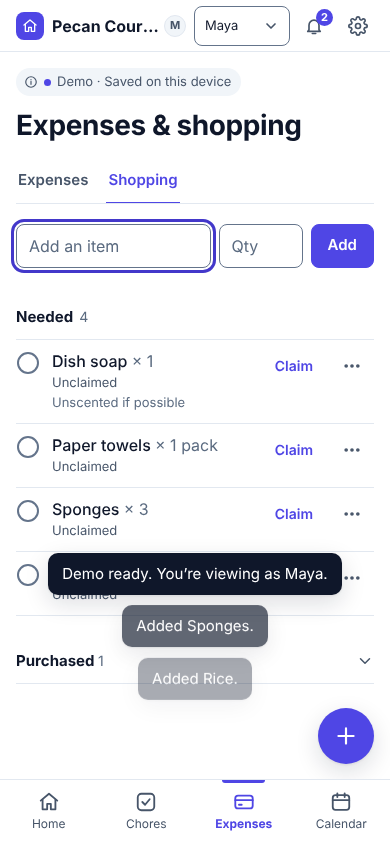
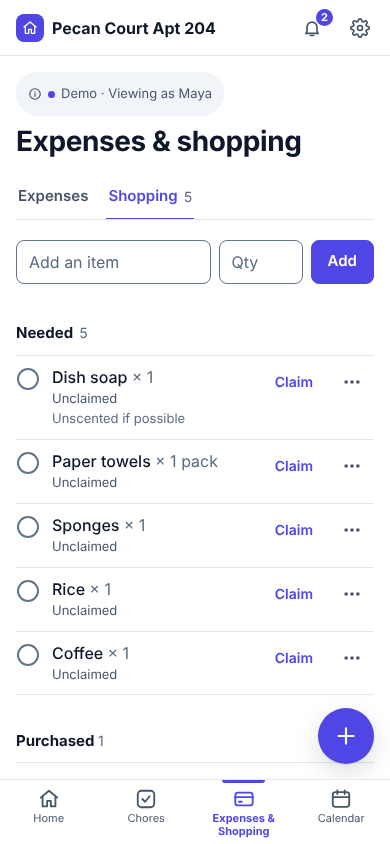
Refine Home priority, shopping discoverability, calendar actions, mobile header and copy
- Home: 'Your upcoming chores' and 'Household plans'; 'Past due in the household' with owner shown and no checkbox; 3-item previews with 'See all' links; recent activity collapsed; mobile order is chores, household past due, balance, plans, shopping, activity
- Mobile nav says 'Expenses & Shopping'; Shopping tab shows the needed count
- Calendar: visible Add event next to the view switch (same dialog as the global Add menu, defaults to the selected day); agenda states its start day with Back to today; roomier week items with clamped titles and full title on open; 7-column week only from 1100px
- Mobile header: household name gets the room (full name in title); roommate switcher moves into the demo chip ('Demo · Viewing as Maya'); 44px targets
- Copy: seed away event no longer implies a weekend; legacy 'payback' text shown as 'repayment' at display time only; single contextual Record repayment entry
- Tests: displayCopy and fixture regressions; tests/e2e.refinement.mjs; existing browser suites updated for the new header

Claude-Session: https://claude.ai/code/session_01D1j1XZUmCQM9XSxDUNXFjc

diff --git a/js/app.js b/js/app.js
@@ -114,28 +114,30 @@ function shopRowCompact(i) {
 }
 
 // ---------- Home ----------
+const PREVIEW = 3; // practical preview length for the available layout (not a research-derived number)
+const moreLink = (n, shown, href, label) => (n > shown ? `<a class="more-link" href="${href}">${label} (${n})</a>` : '');
 function viewHome() {
   const s = store.state, t = today(), me = store.me();
   const hr = new Date().getHours();
   const greet = hr < 12 ? 'Good morning' : hr < 18 ? 'Good afternoon' : 'Good evening';
   const mine = store.sel.mine();
   const overdueMine = mine.filter((o) => o.due < t), dueToday = mine.filter((o) => o.due === t);
-  const upcoming = mine.filter((o) => o.due > t).slice(0, 5);
+  const upcomingAll = mine.filter((o) => o.due > t), upcoming = upcomingAll.slice(0, PREVIEW);
   const others = store.sel.overdue().filter((o) => o.assigneeId !== me);
   const needed = store.sel.needed();
-  const events = store.sel.upcomingEvents(14).slice(0, 4);
+  const events = store.sel.upcomingEvents(14);
   const feed = s.activity.slice(0, 5);
   const list = (arr) => `<ul class="list">${arr.map((o) => choreRow(o, { ctx: 'h' })).join('')}</ul>`;
   const todayBody = dueToday.length ? list(dueToday)
-    : `<div class="empty"><strong>${ic('check', 16)} You’re all caught up today</strong>${upcoming.length ? `Next up: ${esc(upcoming[0].title)}, ${L.fmtDay(upcoming[0].due)}.` : 'Nothing is assigned to you right now.'}</div>`;
+    : `<div class="empty"><strong>${ic('check', 16)} You’re all caught up today</strong>${upcomingAll.length ? `Next up: ${esc(upcomingAll[0].title)}, ${L.fmtDay(upcomingAll[0].due)}.` : 'Nothing is assigned to you right now.'}</div>`;
   const mainCol = `<div data-o="1">${overdueMine.length ? sec('over', 'Overdue', list(overdueMine), { count: overdueMine.length, danger: true, icon: 'alert' }) : ''}
       ${sec('today', 'Today', todayBody + addRow('add-chore', 'Add chore'), { count: dueToday.length || null })}
-      ${upcoming.length ? sec('up', 'Upcoming', list(upcoming), { count: upcoming.length, right: '<a href="#/chores/mine">All your chores</a>' }) : ''}</div>
-    ${others.length ? `<div data-o="5">${sec('others', 'Needs attention in the household', `<ul class="list">${others.map((o) => choreRow(o, { ctx: 'o', owner: true })).join('')}</ul>`, { count: others.length, right: '<a href="#/chores/all">All chores</a>' })}</div>` : ''}
-    <div data-o="6">${sec('act', 'Recent activity', feed.length ? `<ul class="feed">${feed.map((a) => `<li><a href="${esc(a.link)}"><strong>${esc(who(a.actorId))}</strong> ${esc(a.verb)} ${esc(a.subject)}</a><time datetime="${a.ts}">${ago(a.ts)}</time></li>`).join('')}</ul>` : empty('No activity yet', 'Completed chores, purchases and changes show up here.'))}</div>`;
-  const sideCol = `<div data-o="2" class="sec"><div class="panel-soft"><div class="sec-head" style="border:0;padding:0 0 8px"><h2>Your balance</h2><a href="#/money/expenses">Expenses</a></div>${balanceBlock()}</div></div>
-    <div data-o="3">${sec('ev', 'Coming up', events.length ? `<ul class="list">${events.map(eventRow).join('')}</ul>` : empty('Nothing planned', 'Add quiet time, guests or plans so everyone knows.', '<br><button type="button" class="btn sm" data-action="add-event">Add event</button>'), { right: '<a href="#/calendar">Calendar</a>' })}</div>
-    <div data-o="4">${sec('shop', 'Shopping list', needed.length ? `<ul class="list">${needed.slice(0, 4).map(shopRowCompact).join('')}</ul>${needed.length > 4 ? `<p class="small muted" style="padding-top:8px">+ ${needed.length - 4} more</p>` : ''}` : empty('Nothing needed', 'Add something when the apartment runs low.', '<br><button type="button" class="btn sm" data-action="add-item">Add item</button>'), { count: needed.length || null, right: '<a href="#/money/shopping">Open list</a>' })}</div>`;
+      ${upcomingAll.length ? sec('up', 'Your upcoming chores', list(upcoming) + moreLink(upcomingAll.length, upcoming.length, '#/chores/mine', 'See all your chores'), { count: upcomingAll.length }) : ''}</div>
+    ${others.length ? `<div data-o="2">${sec('others', 'Past due in the household', `<ul class="list">${others.slice(0, PREVIEW).map((o) => choreRow(o, { ctx: 'o', owner: true })).join('')}</ul>${moreLink(others.length, PREVIEW, '#/chores/all', 'See all chores')}`, { count: others.length })}</div>` : ''}
+    <div data-o="6">${disclosure('activity', 'Recent activity', feed.length ? `<ul class="feed">${feed.map((a) => `<li><a href="${esc(a.link)}"><strong>${esc(who(a.actorId))}</strong> ${esc(L.displayCopy(a.verb))} ${esc(L.displayCopy(a.subject))}</a><time datetime="${a.ts}">${ago(a.ts)}</time></li>`).join('')}</ul>` : empty('No activity yet', 'Completed chores, purchases and changes show up here.'))}</div>`;
+  const sideCol = `<div data-o="3" class="sec"><div class="panel-soft"><div class="sec-head" style="border:0;padding:0 0 8px"><h2>Your balance</h2><a href="#/money/expenses">Expenses</a></div>${balanceBlock()}</div></div>
+    <div data-o="4">${sec('ev', 'Household plans', events.length ? `<ul class="list">${events.slice(0, PREVIEW).map(eventRow).join('')}</ul>${moreLink(events.length, PREVIEW, '#/calendar', 'See calendar')}` : empty('Nothing planned', 'Add quiet time, guests or plans so everyone knows.', '<br><button type="button" class="btn sm" data-action="add-event">Add event</button>'), { count: events.length || null, right: '<a href="#/calendar">Calendar</a>' })}</div>
+    <div data-o="5">${sec('shop', 'Shopping list', needed.length ? `<ul class="list">${needed.slice(0, PREVIEW).map(shopRowCompact).join('')}</ul>${moreLink(needed.length, PREVIEW, '#/money/shopping', 'See the full list')}` : empty('Nothing needed', 'Add something when the apartment runs low.', '<br><button type="button" class="btn sm" data-action="add-item">Add item</button>'), { count: needed.length || null, right: '<a href="#/money/shopping">Open list</a>' })}</div>`;
   return `<div class="page-head"><div><h1>Today</h1><p class="sub">${greet}, ${esc(name(me))} · ${L.fmtDay(t)}</p></div></div><div class="dash"><div class="dash-col">${mainCol}</div><div class="dash-col">${sideCol}</div></div>`;
 }
 
@@ -162,7 +164,7 @@ function viewChores(tab) {
 
 // ---------- Expenses & shopping ----------
 function viewMoney(tab) {
-  const tabsNav = `<nav class="tabs" aria-label="Expenses and shopping"><a href="#/money/expenses"${tab === 'expenses' ? ' aria-current="page"' : ''}>Expenses</a><a href="#/money/shopping"${tab === 'shopping' ? ' aria-current="page"' : ''}>Shopping</a></nav>`;
+  const tabsNav = `<nav class="tabs" aria-label="Expenses and shopping"><a href="#/money/expenses"${tab === 'expenses' ? ' aria-current="page"' : ''}>Expenses</a><a href="#/money/shopping"${tab === 'shopping' ? ' aria-current="page"' : ''}>Shopping${store.sel.needed().length ? `<span class="count" style="margin-left:6px">${store.sel.needed().length}<span class="sr-only"> needed</span></span>` : ''}</a></nav>`;
   if (tab === 'shopping') {
     const needed = store.sel.needed(), bought = store.sel.purchased();
     const row = (i) => {
@@ -184,6 +186,7 @@ function viewMoney(tab) {
       ${disclosure('bought', `Purchased <span class="count">${bought.length}</span>`, bought.length ? `<ul class="list">${bought.map(histRow).join('')}</ul>` : empty('Nothing purchased yet', 'Purchased items are kept here so you can add them again.'))}`;
   }
   const s = store.state, me = store.me(), bal = store.sel.balances();
+  const owesSomeone = store.sel.settlements().some((x) => x.from === me); // the balance panel already offers a prefilled repayment
   const hist = [...s.expenses.map((e) => ({ k: 'e', d: e.date, c: e.createdAt, v: e })), ...s.reimbursements.map((r) => ({ k: 'r', d: r.date, c: r.createdAt, v: r }))].sort((a, b) => b.d.localeCompare(a.d) || b.c.localeCompare(a.c));
   const expRow = (e) => {
     const share = e.splits[me];
@@ -198,7 +201,7 @@ function viewMoney(tab) {
   const balances = `<table><caption class="sr-only">Net balance by roommate</caption><thead><tr><th scope="col">Roommate</th><th scope="col" class="num">Balance</th></tr></thead><tbody>${s.members.map((m) => `<tr><th scope="row">${avatar(m.id)} ${esc(m.name)}${m.id === me ? ' (you)' : ''}</th><td class="num">${bal[m.id] > 0 ? `Is owed ${money(bal[m.id])}` : bal[m.id] < 0 ? `Owes ${money(-bal[m.id])}` : 'Settled up'}</td></tr>`).join('')}</tbody></table>`;
   return `<div class="page-head"><h1>Expenses &amp; shopping</h1></div>${tabsNav}
     <div class="sec"><div class="panel-soft"><h2 style="margin-bottom:8px">Your balance</h2>${balanceBlock({ full: true })}</div></div>
-    ${sec('hist', 'Expenses and repayments', (hist.length ? `<ul class="list">${hist.map((h) => (h.k === 'e' ? expRow(h.v) : reRow(h.v))).join('')}</ul>` : empty('No expenses yet', 'Add the first shared expense, like utilities or groceries.')) + addRow('add-expense', 'Add expense') + addRow('add-reimb', 'Record repayment'))}
+    ${sec('hist', 'Expenses and repayments', (hist.length ? `<ul class="list">${hist.map((h) => (h.k === 'e' ? expRow(h.v) : reRow(h.v))).join('')}</ul>` : empty('No expenses yet', 'Add the first shared expense, like utilities or groceries.')) + addRow('add-expense', 'Add expense') + (owesSomeone ? '' : addRow('add-reimb', 'Record repayment')))}
     ${sec('tot', `Household spending in ${L.fmtMonth(today()).split(' ')[0]}`, `<p class="balance-line money" style="padding-top:12px">${money(store.sel.monthTotal())}</p><p class="hint">Expenses dated this month. Repayments aren’t counted as spending.</p>`)}
     ${disclosure('balances', 'Everyone’s balance', balances)}`;
 }
@@ -218,7 +221,7 @@ function viewCalendar() {
   const ws = L.startOfWeek(sel), days = Array.from({ length: 7 }, (_, i) => L.addDays(ws, i));
   const meta = (d) => ({ evs: store.sel.eventsOn(d), occs: store.sel.occsOn(d) });
   const bar = `<div class="cal-bar"><div class="cal-title"><h2>${L.fmtMonth(sel)}</h2><button type="button" class="icon-btn sm" data-action="cal-shift" data-delta="-7" aria-label="Previous week">${ic('chevL', 18)}</button><button type="button" class="icon-btn sm" data-action="cal-shift" data-delta="7" aria-label="Next week">${ic('chevR', 18)}</button><button type="button" class="btn quiet sm" data-action="cal-today">Today</button></div>
-    <div class="seg" role="group" aria-label="Calendar view"><label><input type="radio" name="calview" value="agenda" data-action="cal-view" data-view="agenda"${view === 'agenda' ? ' checked' : ''}><span>Agenda</span></label><label><input type="radio" name="calview" value="week" data-action="cal-view" data-view="week"${view === 'week' ? ' checked' : ''}><span>Week</span></label></div></div>`;
+    <div class="cal-tools"><div class="seg" role="group" aria-label="Calendar view"><label><input type="radio" name="calview" value="agenda" data-action="cal-view" data-view="agenda"${view === 'agenda' ? ' checked' : ''}><span>Agenda</span></label><label><input type="radio" name="calview" value="week" data-action="cal-view" data-view="week"${view === 'week' ? ' checked' : ''}><span>Week</span></label></div><button type="button" class="btn primary" data-action="add-event">${ic('plus', 18)}Add event</button></div></div>`;
   let body;
   if (view === 'agenda') {
     const strip = `<div class="date-strip" role="group" aria-label="Week of ${L.fmtMonthDay(ws)}">${days.map((d) => {
@@ -238,13 +241,14 @@ function viewCalendar() {
       ${evs.map((e) => `<button type="button" class="ag-row" data-action="view-event" data-id="${e.id}"><span class="ag-time">${rangeLabel(e, d)}</span><span class="ag-ic cat-${e.category}">${ic(CAT_ICON[e.category], 15)}</span><span><span class="ag-title">${esc(e.title)}</span><span class="ag-sub" style="display:block">${esc(L.CATEGORIES[e.category].label)} · ${esc(who(e.creatorId))}</span></span></button>`).join('')}
       ${occs.map((o) => `<button type="button" class="ag-row" data-action="view-chore" data-id="${o.id}"><span class="ag-time">Chore</span><span class="ag-ic chore">${ic('chores', 15)}</span><span><span class="ag-title${o.doneAt ? ' done' : ''}">${esc(o.title)}</span><span class="ag-sub" style="display:block">${esc(who(o.assigneeId))}${o.doneAt ? ' · Done' : ''}</span></span></button>`).join('')}
       ${!evs.length && !occs.length ? '<p class="small muted" style="padding:12px 0">Nothing planned</p>' : ''}</section>`).join('');
-    body = `${strip}${any ? rows : rows + empty('Nothing on the calendar', 'Add quiet time, guests, an away day or a household plan.', '<br><button type="button" class="btn sm" data-action="add-event">Add event</button>')}`;
+    const anchor = `<p class="ag-anchor">Showing the next 14 days from <strong>${L.fmtFull(sel)}</strong>${sel === t ? ' (today)' : ''}. Pick another day above to start the agenda there.${sel !== t ? ' <button type="button" class="btn quiet sm" data-action="cal-today">Back to today</button>' : ''}</p>`;
+    body = `${strip}${anchor}${any ? rows : rows + empty('Nothing on the calendar', 'Add quiet time, guests, an away day or a household plan.', '<br><button type="button" class="btn sm" data-action="add-event">Add event</button>')}`;
   } else {
     body = `<div class="week">${days.map((d) => {
       const { evs, occs } = meta(d), none = !evs.length && !occs.length;
       return `<section class="wk-day${d === t ? ' today' : ''}${d < t ? ' past' : ''}" aria-label="${L.fmtFull(d)}"><button type="button" class="wk-head" data-action="cal-open-day" data-date="${d}" aria-label="Open ${L.fmtFull(d)} in agenda"><span>${L.fmtWeekday(d)}</span><span class="dn">${parseInt(d.slice(8), 10)}</span></button>
-        ${evs.map((e) => `<button type="button" class="wk-item cat-${e.category}" data-action="view-event" data-id="${e.id}"><span class="t">${ic(CAT_ICON[e.category], 12)}${L.fmtTime(L.dtTime(e.start))}</span><span class="n">${esc(e.title)}</span></button>`).join('')}
-        ${occs.map((o) => `<button type="button" class="wk-item chore${o.doneAt ? ' is-done' : ''}" data-action="view-chore" data-id="${o.id}"><span class="t">${ic('chores', 12)}${esc(who(o.assigneeId))}</span><span class="n">${esc(o.title)}</span></button>`).join('')}
+        ${evs.map((e) => `<button type="button" class="wk-item cat-${e.category}" data-action="view-event" data-id="${e.id}" title="${esc(e.title)}"><span class="t">${ic(CAT_ICON[e.category], 12)}${L.fmtTime(L.dtTime(e.start))}</span><span class="n">${esc(e.title)}</span></button>`).join('')}
+        ${occs.map((o) => `<button type="button" class="wk-item chore${o.doneAt ? ' is-done' : ''}" data-action="view-chore" data-id="${o.id}" title="${esc(o.title)}"><span class="t">${ic('chores', 12)}${esc(who(o.assigneeId))}</span><span class="n">${esc(o.title)}</span></button>`).join('')}
         ${none ? '<span class="wk-none">Nothing planned</span>' : ''}</section>`;
     }).join('')}</div>`;
   }
@@ -256,7 +260,7 @@ function viewNotifications() {
   const list = store.sel.notifications();
   const groups = ['Today', 'Yesterday', 'Earlier'].map((g) => [g, list.filter((n) => dayBucket(n.createdAt) === g)]).filter(([, v]) => v.length);
   const row = (n) => `<li class="notif ${n.read ? 'read' : 'unread'}"><span class="ndot" aria-hidden="true"></span>
-    <a class="n-main" href="${esc(n.link)}" data-action="open-notif" data-id="${n.id}"><span class="sr-only">${n.read ? 'Read: ' : 'Unread: '}</span><div class="n-title">${esc(n.title)}</div>${n.body ? `<div class="n-body">${esc(n.body)}</div>` : ''}<time>${ago(n.createdAt)}</time></a>
+    <a class="n-main" href="${esc(n.link)}" data-action="open-notif" data-id="${n.id}"><span class="sr-only">${n.read ? 'Read: ' : 'Unread: '}</span><div class="n-title">${esc(L.displayCopy(n.title))}</div>${n.body ? `<div class="n-body">${esc(L.displayCopy(n.body))}</div>` : ''}<time>${ago(n.createdAt)}</time></a>
     ${menu({ id: `n-${n.id}`, label: 'More actions for this notification', items: [{ label: n.read ? 'Mark as unread' : 'Mark as read', icon: 'check', action: 'toggle-read', data: { id: n.id } }] })}</li>`;
   const unread = list.filter((n) => !n.read).length;
   return `<div class="page-head"><div><h1>Notifications</h1><p class="sub">${unread ? `${unread} unread` : 'All caught up'} · for ${esc(name(store.me()))}</p></div><div class="head-actions"><button type="button" class="btn" data-action="read-all"${unread ? '' : ' disabled'}>Mark all read</button><a class="btn quiet" href="#/settings">Reminder settings</a></div></div>
@@ -521,7 +525,7 @@ document.addEventListener('toggle', (e) => { const k = e.target.dataset?.key; if
 document.addEventListener('submit', (e) => { const f = e.target; if (f.dataset.inline) { e.preventDefault(); handleInlineForm(f); } });
 
 // ---------- shell & render ----------
-const NAV = [['home', '#/home', 'Home', 'home', 'Home'], ['chores', '#/chores/mine', 'Chores', 'chores', 'Chores'], ['money', '#/money/expenses', 'Expenses & Shopping', 'money', 'Expenses'], ['calendar', '#/calendar', 'Calendar', 'calendar', 'Calendar']];
+const NAV = [['home', '#/home', 'Home', 'home', 'Home'], ['chores', '#/chores/mine', 'Chores', 'chores', 'Chores'], ['money', '#/money/expenses', 'Expenses & Shopping', 'money', 'Expenses & Shopping'], ['calendar', '#/calendar', 'Calendar', 'calendar', 'Calendar']];
 const TITLES = { home: 'Home', chores: 'Chores', money: 'Expenses & Shopping', calendar: 'Calendar', notifications: 'Notifications', settings: 'Settings' };
 const ADD_ITEMS = [{ label: 'Chore', icon: 'chores', action: 'add-chore' }, { label: 'Expense', icon: 'money', action: 'add-expense' }, { label: 'Shopping item', icon: 'cart', action: 'add-item' }, { label: 'Event', icon: 'calendar', action: 'add-event' }];
 function render() {
@@ -544,14 +548,18 @@ function render() {
   const navLinks = (side) => NAV.map(([k, href, label, icon, short]) => `<a ${side ? 'class="nav"' : ''} href="${href}"${k === key ? ' aria-current="page"' : ''} aria-label="${esc(label)}">${ic(icon, side ? 20 : 22)}<span aria-hidden="true">${side ? label : short}</span></a>`).join('');
   const bell = `<a class="icon-link" href="#/notifications" aria-label="Notifications${unread ? `, ${unread} unread` : ''}"${key === 'notifications' ? ' aria-current="page"' : ''}>${ic('bell', 20)}${unread ? `<span class="badge-count" aria-hidden="true">${unread > 9 ? '9+' : unread}</span>` : ''}</a>`;
   const gear = `<a class="icon-link" href="#/settings" aria-label="Settings"${key === 'settings' ? ' aria-current="page"' : ''}>${ic('gear', 20)}</a>`;
-  const viewer = (cls) => `<div class="${cls}"><label class="viewer-label" for="switch-user">Viewing as</label>${isNarrow ? avatar(s.currentUserId) : ''}<select id="switch-user" data-change="switch-user">${s.members.map((m) => `<option value="${m.id}"${m.id === s.currentUserId ? ' selected' : ''}>${esc(m.name)}</option>`).join('')}</select></div>`;
-  const household = `<a class="household" href="#/home" title="${esc(s.household.name)}"><span class="logo">${ic('home', 16)}</span><span class="t">${esc(s.household.name)}</span></a>`;
-  const status = `<div class="statusbar"><details class="status"><summary>${ic('info', 14)}<span class="dot" aria-hidden="true"></span>${s.mode === 'demo' ? 'Demo' : 'Local'} · Saved on this device</summary><div class="panel"><strong style="color:var(--color-text)">${s.mode === 'demo' ? 'Demo household' : 'Local household'}</strong><ul><li>Everything is stored in this browser. It doesn’t sync to other devices.</li><li>“Viewing as” previews each roommate. There are no accounts yet.</li><li>Notifications show inside RoomSync only.</li></ul></div></details></div>`;
+  const household = `<a class="household" href="#/home" title="${esc(s.household.name)}" aria-label="${esc(s.household.name)}, home"><span class="logo">${ic('home', 16)}</span><span class="t">${esc(s.household.name)}</span></a>`;
+  const viewerSelect = (label) => `<label for="switch-user">${label}</label><select id="switch-user" data-change="switch-user">${s.members.map((m) => `<option value="${m.id}"${m.id === s.currentUserId ? ' selected' : ''}>${esc(m.name)}</option>`).join('')}</select>`;
+  const modeName = s.mode === 'demo' ? 'Demo' : 'Local';
+  // Phones: the roommate switcher lives inside the demo controls so the header stays quiet; the chip still names who you are viewing as.
+  const status = `<div class="statusbar"><details class="status"><summary>${ic('info', 14)}<span class="dot" aria-hidden="true"></span>${isNarrow ? `${modeName} · Viewing as ${esc(name(s.currentUserId))}` : `${modeName} · Saved on this device`}</summary><div class="panel"><strong style="color:var(--color-text)">${s.mode === 'demo' ? 'Demo household' : 'Local household'} · ${esc(s.household.name)}</strong>
+    ${isNarrow ? `<div class="panel-viewer">${viewerSelect('Viewing as')}<p class="hint">Preview each roommate’s view. This isn’t a login.</p></div>` : ''}
+    <ul><li>Saved on this device only. It doesn’t sync to other devices.</li><li>${isNarrow ? 'Switching roommates previews their chores and balance.' : '“Viewing as” previews each roommate. There are no accounts yet.'}</li><li>Notifications show inside RoomSync only.</li></ul></div></details></div>`;
   const sidebar = `<aside class="sidebar" aria-label="Sidebar"><div class="side-head">${household}</div>
     <div class="side-viewer"><label for="switch-user">Viewing as</label><div class="side-tools"><select id="switch-user" data-change="switch-user">${s.members.map((m) => `<option value="${m.id}"${m.id === s.currentUserId ? ' selected' : ''}>${esc(m.name)}</option>`).join('')}</select>${bell}${gear}</div></div>
     ${menu({ id: 'add-side', label: 'Add to household', icon: 'plus', text: 'Add', cls: 'nav-add', items: ADD_ITEMS })}
     <nav aria-label="Primary">${navLinks(true)}</nav><div class="side-foot">${status}</div></aside>`;
-  const topbar = `<header class="topbar">${household}${viewer('viewer')}${bell}${gear}</header>`;
+  const topbar = `<header class="topbar">${household}${bell}${gear}</header>`;
   app.innerHTML = `<div class="shell">${isNarrow ? '' : sidebar}
     <div class="main-col">${isNarrow ? topbar : ''}
       ${store.saveError ? `<div class="banner-error" role="alert">Couldn’t save to this browser (storage may be full or blocked). Recent changes will be lost if you close or refresh this page.</div>` : ''}

diff --git a/css/styles.css b/css/styles.css
@@ -58,20 +58,21 @@ svg.i { flex: none; vertical-align: middle; }
 .main-col { padding-bottom: calc(var(--nav-h) + 96px + env(safe-area-inset-bottom, 0px)); min-width: 0; background: var(--color-surface); }
 main { max-width: 800px; margin: 0 auto; padding: var(--space-4) var(--space-4) var(--space-6); outline: none; }
 main.wide { max-width: 1040px; }
-.topbar { position: sticky; top: 0; z-index: 20; background: var(--color-surface); border-bottom: 1px solid var(--color-border); display: flex; align-items: center; gap: var(--space-1); padding: var(--space-1) var(--space-3) var(--space-1) var(--space-4); min-height: 52px; }
+.topbar { position: sticky; top: 0; z-index: 20; background: var(--color-surface); border-bottom: 1px solid var(--color-border); display: flex; align-items: center; gap: var(--space-1); padding: var(--space-1) var(--space-2) var(--space-1) var(--space-4); min-height: 56px; }
 .household { display: flex; align-items: center; gap: var(--space-2); min-width: 0; margin-right: auto; color: var(--color-text); font-weight: 650; text-decoration: none; }
 .household span.t { overflow: hidden; text-overflow: ellipsis; white-space: nowrap; }
+.household { flex: 1; }
 .logo { display: inline-grid; place-items: center; width: 28px; height: 28px; border-radius: 8px; background: var(--color-primary); color: var(--color-on-primary); flex: none; }
 .viewer { display: flex; align-items: center; gap: var(--space-2); font-size: .8125rem; color: var(--color-text-secondary); flex: none; white-space: nowrap; }
 .viewer select { width: auto; min-width: 96px; max-width: 150px; min-height: 40px; padding: 4px 28px 4px 10px; }
-.icon-link { position: relative; display: inline-grid; place-items: center; width: 40px; height: 40px; border-radius: var(--radius-control); color: var(--color-text-secondary); text-decoration: none; transition: background var(--dur); flex: none; }
+.icon-link { position: relative; display: inline-grid; place-items: center; width: 44px; height: 44px; border-radius: var(--radius-control); color: var(--color-text-secondary); text-decoration: none; transition: background var(--dur); flex: none; }
 .icon-link:hover { background: var(--color-surface-subtle); color: var(--color-text); }
 .icon-link[aria-current="page"] { background: var(--color-primary-subtle); color: var(--color-primary); }
 .badge-count { position: absolute; top: 3px; right: 1px; min-width: 17px; height: 17px; padding: 0 4px; border-radius: 999px; background: var(--color-primary); color: var(--color-on-primary); font-size: .6875rem; font-weight: 700; display: grid; place-items: center; }
 .banner-error { margin: var(--space-3) var(--space-4) 0; padding: var(--space-3) var(--space-4); border-radius: var(--radius-control); background: var(--color-danger-subtle); color: var(--color-danger); font-size: .875rem; border: 1px solid var(--color-danger); }
 
 .bottomnav { position: fixed; left: 0; right: 0; bottom: 0; background: var(--color-surface); border-top: 1px solid var(--color-border); display: grid; grid-template-columns: repeat(4, 1fr); z-index: 30; padding-bottom: env(safe-area-inset-bottom, 0px); }
-.bottomnav a { display: flex; flex-direction: column; align-items: center; justify-content: center; gap: 2px; min-height: var(--nav-h); font-size: .75rem; color: var(--color-text-secondary); text-decoration: none; padding: 6px 2px; position: relative; }
+.bottomnav a { display: flex; flex-direction: column; align-items: center; justify-content: flex-start; gap: 2px; min-height: var(--nav-h); font-size: .6875rem; line-height: 1.15; text-align: center; color: var(--color-text-secondary); text-decoration: none; padding: 8px 4px 6px; position: relative; }
 .bottomnav a[aria-current="page"] { color: var(--color-primary); font-weight: 650; }
 .bottomnav a[aria-current="page"]::before { content: ""; position: absolute; top: 0; left: 28%; right: 28%; height: 3px; border-radius: 0 0 3px 3px; background: var(--color-primary); }
 .fab-wrap { position: fixed; right: var(--space-4); bottom: calc(var(--nav-h) + var(--space-4) + env(safe-area-inset-bottom, 0px)); z-index: 25; }
@@ -86,6 +87,9 @@ main.wide { max-width: 1040px; }
 .status .dot { width: 7px; height: 7px; border-radius: 50%; background: var(--color-primary); }
 .status .panel { position: absolute; z-index: 15; margin-top: 6px; width: min(340px, calc(100vw - 32px)); padding: var(--space-4); background: var(--color-surface); border: 1px solid var(--color-border); border-radius: var(--radius-surface); box-shadow: var(--shadow-pop); font-size: .875rem; }
 .status .panel ul { margin: var(--space-2) 0 0; padding-left: 18px; }
+.panel-viewer { margin-top: var(--space-3); }
+.panel-viewer label { display: block; font-size: .8125rem; font-weight: 600; color: var(--color-text-secondary); margin-bottom: 4px; }
+@media (max-width: 859px) { .status > summary { min-height: 44px; padding-inline: 12px; } .statusbar { margin-bottom: var(--space-2); } }
 .status .panel li + li { margin-top: 4px; }
 
 @media (min-width: 860px) {
@@ -294,16 +298,16 @@ details.inline ul { margin: 4px 0 0; padding-left: 18px; font-size: .8125rem; co
 .cat-pill { display: inline-flex; align-items: center; gap: 4px; padding: 2px 10px; border-radius: 999px; font-size: .75rem; font-weight: 600; }
 .legend { display: flex; flex-wrap: wrap; gap: var(--space-2); font-size: .75rem; margin-top: var(--space-3); }
 .week { display: grid; gap: 0; grid-template-columns: 1fr; margin-top: var(--space-3); border-top: 1px solid var(--color-border); }
-@media (min-width: 900px) { .week { grid-template-columns: repeat(7, minmax(0, 1fr)); border: 1px solid var(--color-border); border-radius: var(--radius-surface); overflow: hidden; } .wk-day { border-right: 1px solid var(--color-border); } .wk-day:last-child { border-right: 0; } }
+@media (min-width: 1100px) { .week { grid-template-columns: repeat(7, minmax(0, 1fr)); border: 1px solid var(--color-border); border-radius: var(--radius-surface); overflow: hidden; } .wk-day { border-right: 1px solid var(--color-border); } .wk-day:last-child { border-right: 0; } }
 .wk-day { padding: var(--space-3) var(--space-2); min-width: 0; border-bottom: 1px solid var(--color-border); min-height: 56px; }
-@media (min-width: 900px) { .wk-day { border-bottom: 0; min-height: 280px; } }
+@media (min-width: 1100px) { .wk-day { border-bottom: 0; min-height: 300px; padding: var(--space-3); } }
 .wk-head { display: flex; align-items: center; gap: var(--space-2); margin-bottom: var(--space-2); width: 100%; border: 0; background: none; padding: 0; cursor: pointer; text-align: left; color: var(--color-text-secondary); font-size: .8125rem; font-weight: 600; }
 .wk-head .dn { display: grid; place-items: center; width: 28px; height: 28px; border-radius: 50%; font-size: .9375rem; color: var(--color-text); font-weight: 700; }
 .wk-day.today .wk-head .dn { background: var(--color-primary); color: var(--color-on-primary); }
 .wk-day.past .wk-head { opacity: .75; }
-.wk-item { display: block; width: 100%; text-align: left; border: 0; border-radius: 6px; padding: 5px 7px; margin-bottom: 4px; font-size: .8125rem; cursor: pointer; text-decoration: none; min-width: 0; min-height: 44px; }
+.wk-item { display: block; width: 100%; text-align: left; border: 0; border-radius: 8px; padding: 8px 9px; margin-bottom: 6px; font-size: .8125rem; cursor: pointer; text-decoration: none; min-width: 0; min-height: 44px; }
 .wk-item .t { display: flex; align-items: center; gap: 4px; font-size: .75rem; font-weight: 600; }
-.wk-item .n { display: block; font-weight: 600; overflow-wrap: anywhere; color: var(--color-text); }
+.wk-item .n { display: -webkit-box; -webkit-line-clamp: 3; -webkit-box-orient: vertical; overflow: hidden; font-weight: 600; overflow-wrap: anywhere; color: var(--color-text); line-height: 1.3; margin-top: 2px; }
 .wk-item.chore { background: none; color: var(--color-text-secondary); box-shadow: inset 0 0 0 1px var(--color-border); }
 .wk-item.chore.is-done .n { color: var(--color-text-muted); }
 .wk-none { font-size: .8125rem; color: var(--color-text-muted); }
@@ -386,3 +390,9 @@ dialog form { display: flex; flex-direction: column; width: 100%; max-height: ca
 .fab svg { width: 26px; height: 26px; }
 .nav-add svg { width: 22px; height: 22px; padding: 4px; border-radius: 50%; background: var(--color-primary); color: var(--color-on-primary); }
 .row-lead .ag-ic { width: 24px; height: 24px; }
+
+/* ---------- Refinement pass ---------- */
+.cal-tools { display: flex; align-items: center; gap: var(--space-3); flex-wrap: wrap; }
+.ag-anchor { font-size: .875rem; color: var(--color-text-secondary); padding: var(--space-3) 0 0; }
+.ag-anchor strong { color: var(--color-text); font-weight: 600; }
+.more-link { display: flex; align-items: center; min-height: 44px; font-size: .875rem; font-weight: 500; }

diff --git a/js/store.js b/js/store.js
@@ -590,7 +590,7 @@ export function createStore({ storage, now = () => new Date() } = {}) {
     const ev = (title, category, creatorId, start, end, notes = '') => state.events.push({ id: uid('ev'), title, category, creatorId, start, end, notes, createdAt: iso(-1, 9) });
     ev('Quiet study block (midterm review)', 'quiet', priya, lt(1, 19), lt(1, 22), 'Please keep the living room quiet.');
     ev('Jordan’s friend visiting', 'guest', jordan, lt(2, 18), lt(2, 21), 'Just FYI. They’ll be hanging out in the living room.');
-    ev('Sam away for the weekend', 'away', sam, lt(4, 8), lt(6, 20));
+    ev('Sam away (visiting family)', 'away', sam, lt(4, 8), lt(6, 20));
     ev('Apartment dinner', 'plans', maya, lt(3, 19, 30), lt(3, 21, 30), 'Pasta night. Everyone welcome!');
 
     // Activity (newest first)

diff --git a/js/logic.js b/js/logic.js
@@ -164,3 +164,12 @@ export function describeEventTime(ev) {
   if (sd === ed) return `${fmtDay(sd)} · ${fmtTime(dtTime(ev.start))}–${fmtTime(dtTime(ev.end))}`;
   return `${fmtDay(sd)} ${fmtTime(dtTime(ev.start))} → ${fmtDay(ed)} ${fmtTime(dtTime(ev.end))}`;
 }
+
+/** Display-only wording fix for text persisted by older builds ("payback" -> "repayment"). Never written back to storage. */
+export function displayCopy(text) {
+  return String(text ?? '').replace(/\bpay-?backs?\b/gi, (m) => {
+    const plural = /s$/i.test(m);
+    const w = plural ? 'repayments' : 'repayment';
+    return m[0] === m[0].toUpperCase() ? w[0].toUpperCase() + w.slice(1) : w;
+  });
+}

diff --git a/README.md b/README.md
@@ -18,6 +18,7 @@ npm test             # logic tests (money split, rotation, balances, reminders, 
 PLAYWRIGHT_MODULE=/path/to/playwright node tests/e2e.demo.mjs            # demo scenario, keyboard, responsive sweep
 PLAYWRIGHT_MODULE=/path/to/playwright node tests/e2e.chore-details.mjs   # chore details dialog
 PLAYWRIGHT_MODULE=/path/to/playwright node tests/e2e.refresh.mjs         # quick add, calendar date strip, Add menu, empty states
+PLAYWRIGHT_MODULE=/path/to/playwright node tests/e2e.refinement.mjs      # Home previews, nav label, mobile header, calendar entry points, copy
 ```
 
 ## Design system
